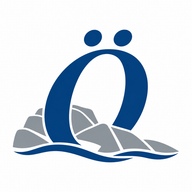
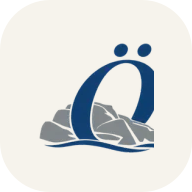
Visa karta bredvid gårdsbilden och runda av ikonerna
- Kontaktsidan visar Google-kartan direkt, i par med gårdsbilden. På mobil
  staplas de under varandra.
- Cookietexten beskrev tidigare att kartor laddas först vid klick. Kartan
  laddas nu med sidan, så stycket är omskrivet till vad som faktiskt sker.
- Favicon och apple-ikon ombyggda från logotypen i full upplösning, med
  rundade hörn, jämnare marginaler och optisk centrering. 19 kB till 7 kB.

Verifierat: bygge, TypeScript, lint och fem tester passerar. Sajtkontrollen
ger noll anmärkningar på 69 sidor, 76 bildreferenser och 136 länkar.

Changed region(s): [[0.0625, 0.125, 0.9375, 0.875]]

diff --git a/app/cookies/page.tsx b/app/cookies/page.tsx
@@ -1,5 +1,5 @@
 import {pageMetadata} from "@/lib/site";
 import {FORETAG} from "@/lib/data";
 export const metadata=pageMetadata("Cookies","Information om cookies och externa länkar på Öckerö Cementgjuteris webbplats.","/cookies");
-export default function Cookies(){return <article className="content-page reading-width"><h1>Cookies</h1><p className="intro">Webbplatsen använder inga analys- eller marknadsföringskakor i sin egen funktionalitet.</p><p>Produktbilder och typsnitt laddas från webbplatsen. Kartor och sociala medier är vanliga länkar och laddas först när du följer länken till den externa tjänsten. Där gäller tjänstens egna inställningar och integritetsinformation.</p><p>Du kan hantera och ta bort kakor i din webbläsare. Det finns inga val för marknadsföringskakor att ändra på den här sidan.</p><p>Frågor? Kontakta oss på <a href={FORETAG.telefonHref}>{FORETAG.telefon}</a>.</p></article>;}
+export default function Cookies(){return <article className="content-page reading-width"><h1>Cookies</h1><p className="intro">Webbplatsen använder inga analys- eller marknadsföringskakor i sin egen funktionalitet.</p><p>Produktbilder och typsnitt laddas från webbplatsen. På kontaktsidan visas en karta från Google Maps. Kartan laddas när du öppnar sidan, och Google kan då spara kakor och behandla uppgifter enligt sina egna villkor. Länkar till sociala medier laddas först när du följer länken.</p><p>Du kan hantera och ta bort kakor i din webbläsare. Det finns inga val för marknadsföringskakor att ändra på den här sidan.</p><p>Frågor? Kontakta oss på <a href={FORETAG.telefonHref}>{FORETAG.telefon}</a>.</p></article>;}
 

diff --git a/app/kontakt/page.tsx b/app/kontakt/page.tsx
@@ -126,21 +126,25 @@ export default async function KontaktPage({ searchParams }: { searchParams: Prom
             </div>
           </div>
 
-          <a
-            href={FORETAG.mapsUrl}
-            target="_blank"
-            rel="noopener noreferrer"
-            aria-label="Öppna vår adress i Google Maps"
-            style={{
-              display: "block",
-              borderRadius: 14,
-              overflow: "hidden",
-              height: 220,
-              backgroundImage: `url('${BUTIK_IMG}')`,
-              backgroundSize: "cover",
-              backgroundPosition: "center",
-            }}
-          />
+          <div className="visit-pair">
+            <a
+              href={FORETAG.mapsUrl}
+              target="_blank"
+              rel="noopener noreferrer"
+              aria-label="Öppna vår adress i Google Maps"
+              className="visit-photo"
+              style={{ backgroundImage: `url('${BUTIK_IMG}')` }}
+            />
+            <div className="visit-map">
+              <iframe
+                src={FORETAG.mapsEmbedUrl}
+                title={`Karta över ${FORETAG.namn}, ${FORETAG.adressRad1}`}
+                loading="lazy"
+                referrerPolicy="no-referrer-when-downgrade"
+                allowFullScreen
+              />
+            </div>
+          </div>
           <div style={{ fontSize: 13, color: "var(--muted)", marginTop: 10 }}>
             Vår gård på {FORETAG.gata}, {FORETAG.ort}.{" "}
             <a

diff --git a/app/globals.css b/app/globals.css
@@ -521,6 +521,13 @@ a:focus-visible,button:focus-visible,input:focus-visible,textarea:focus-visible,
 .contact-form { display:grid; gap:10px; color:var(--ljus); }
 .contact-form label { font-size:15px; margin-top:8px; }
 .field-optional { font-weight:400; opacity:.75; }
+
+/* Gårdsbild och karta sida vid sida under kontaktuppgifterna. */
+.visit-pair { display:grid; grid-template-columns:1fr 1fr; gap:14px; }
+.visit-photo,.visit-map { height:220px; border-radius:14px; overflow:hidden; border:1px solid var(--kant); }
+.visit-photo { display:block; background-size:cover; background-position:center; }
+.visit-map iframe { display:block; width:100%; height:100%; border:0; }
+@media(max-width:520px){ .visit-pair { grid-template-columns:1fr; } .visit-photo,.visit-map { height:180px; } }
 .contact-form input,.contact-form textarea { width:100%; min-width:0; border:1px solid rgba(255,255,255,.6); background:rgba(255,255,255,.08); color:var(--ljus); border-radius:8px; padding:12px; font:16px var(--font-sans),sans-serif; }
 .contact-form input:focus-visible,.contact-form textarea:focus-visible,.contact-form button:focus-visible,.contact-form a:focus-visible { outline-color:white; }
 .contact-form textarea { resize:vertical; }
